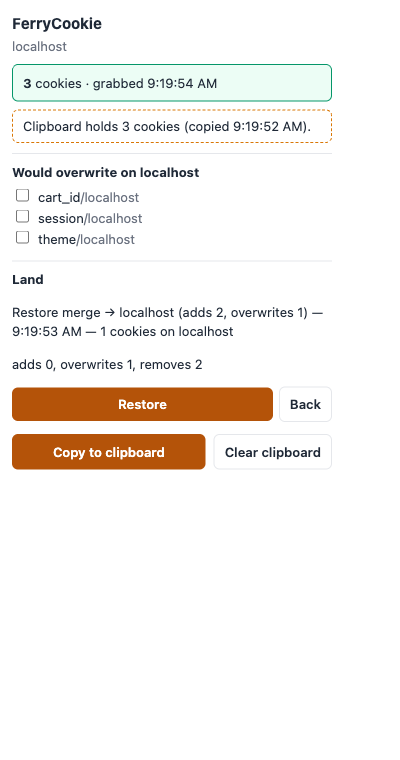
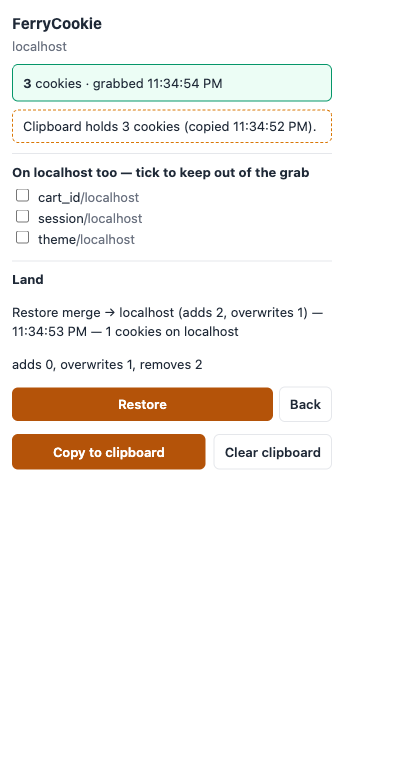
fix: relabel the copy preview — ticking keeps a cookie out of the grab
The section heading ('Would overwrite on localhost') described the
rows, not the checkbox effect, and misdescribed the feature: ticking
adds the name to the protect list, which excludes it from the grab —
nothing is written to or withheld from the local jar by the copy-side
list. The overwrite story belongs to the landing diff, which already
states its own adds/overwrites math.

Heading now reads 'On localhost too — tick to keep out of the grab';
the checkbox aria-label says 'from being grabbed'; showcase prose and
alt text follow; screenshots regenerated.

diff --git a/src/popup/popup.js b/src/popup/popup.js
@@ -234,7 +234,7 @@ function renderPreview() {
     box.checked = state.protect.includes(row.name);
     box.dataset.name = row.name;
     box.id = `protect-${CSS.escape(row.name)}-${CSS.escape(row.domain)}-${CSS.escape(row.path)}`;
-    box.setAttribute('aria-label', `protect ${row.name} ${row.domain} ${row.path} from being overwritten`);
+    box.setAttribute('aria-label', `protect ${row.name} ${row.domain} ${row.path} from being grabbed`);
 
     const label = document.createElement('label');
     label.htmlFor = box.id;

diff --git a/src/popup/popup.html b/src/popup/popup.html
@@ -24,7 +24,7 @@
   <ul id="flags" class="flags"></ul>
 
   <section id="preview" hidden>
-    <h2>Would overwrite on localhost</h2>
+    <h2>On localhost too — tick to keep out of the grab</h2>
     <ul id="preview-list"></ul>
   </section>
 

diff --git a/docs/showcase.md b/docs/showcase.md
@@ -8,9 +8,9 @@ The whole loop in screenshots: copy a logged-in site's cookies, land them on `lo
 
 ## 2 · Copy — one gesture on the logged-in site
 
-Open the site you're logged into and click the FerryCookie icon. The popup is a receipt, not a dashboard: source host, cookie count, grab time, and the flags that changed the story (partitioned cookies excluded, duplicates collapsed, broken `SameSite` pairs). The **Would overwrite** list shows which local cookies an import would clobber — tick a checkbox to *protect* a name the ferry must never touch, on either side.
+Open the site you're logged into and click the FerryCookie icon. The popup is a receipt, not a dashboard: source host, cookie count, grab time, and the flags that changed the story (partitioned cookies excluded, duplicates collapsed, broken `SameSite` pairs). The **On localhost too** list shows cookies that also sit on the local jar — tick a checkbox to *protect* the name: the ferry never grabs it, and never lands over it either.
 
-![Copy view — receipt, flags, and the overwrite preview with protect checkboxes](screenshots/01-copy-grab.png)
+![Copy view — receipt, flags, and the protect list](screenshots/01-copy-grab.png)
 
 Click **Copy to clipboard** (or use the right-click menu "Copy cookies as localhost JSON", or `Ctrl/Cmd+Shift+9`). The credential state becomes visible — the clipboard now holds live session data, with a one-tap clear:
 
